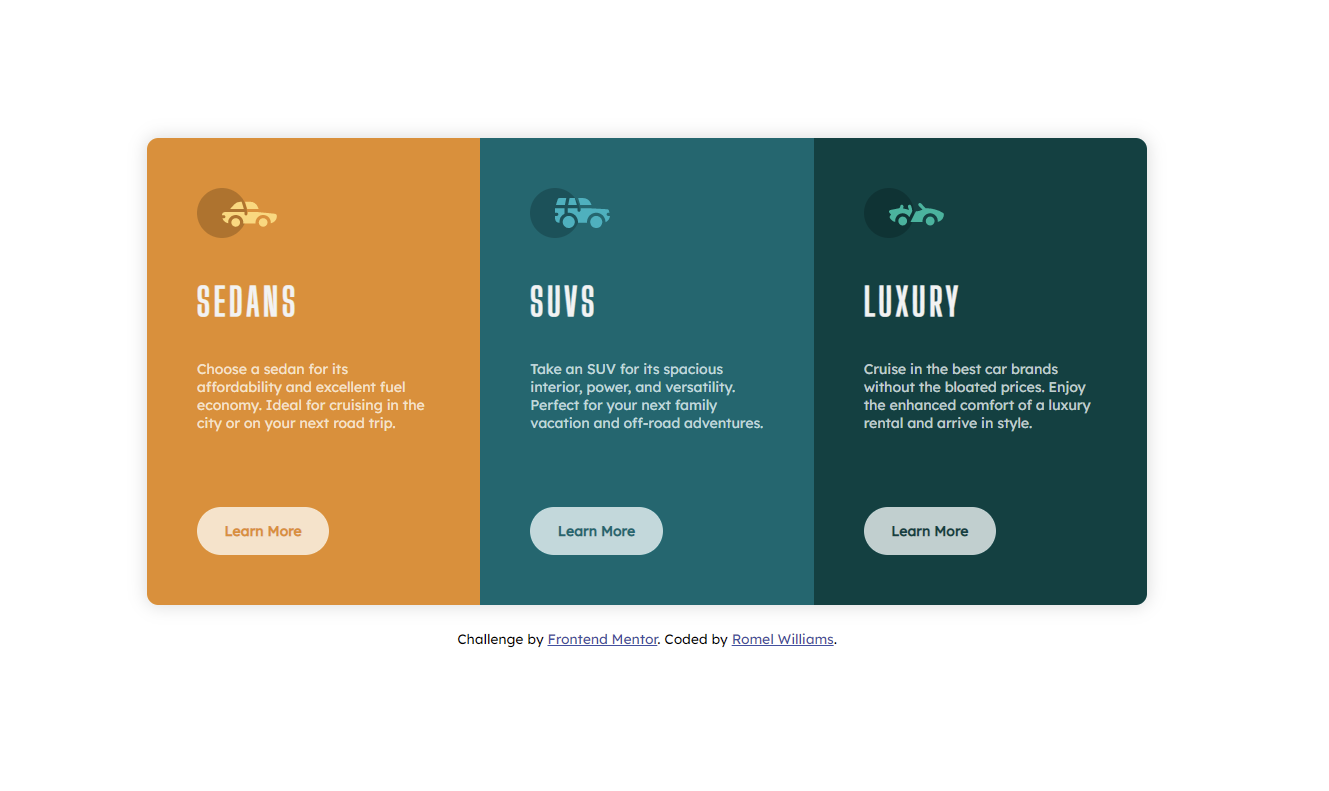
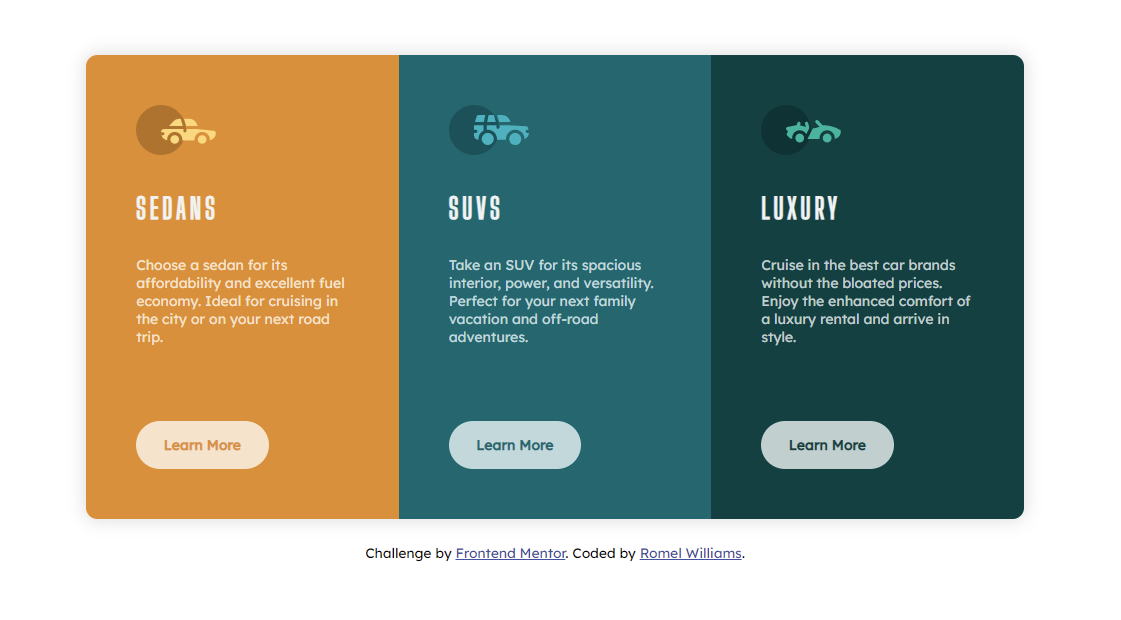
Changed max-width value and updated screenshot.
Changed max-width value slightly and updated screenshot.

Changed region(s): [[0.0624, 0.0613, 0.9367, 0.8581], [0.3122, 0.8887, 0.6557, 0.9194]]

diff --git a/css/styles.css b/css/styles.css
@@ -29,7 +29,8 @@ p {
   display: flex;
   justify-content: center;
   margin: 250px auto 20px auto;
-  max-width: 800px;
+  min-width: 375px;
+  max-width: 750px;
   border-radius: 9px;
   overflow: hidden;
   box-shadow: 0px 0px 14px 1px #00000024;
